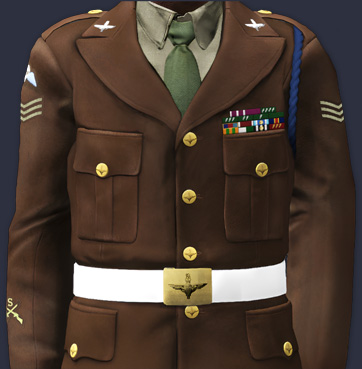
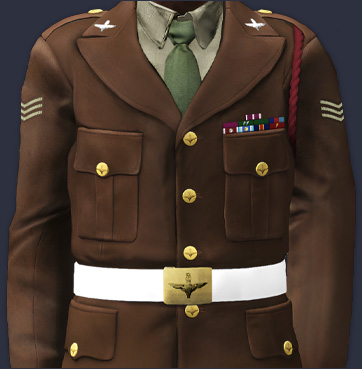
Improve ribbon rows logic

diff --git a/README.md b/README.md
@@ -6,7 +6,6 @@ This plugin shows a dynamically updating uniform for the 16AA member showing gro
 ## To-Do
 - [ ] Add Recruit graphics
 - [ ] Add remaining ranks graphics
-- [ ] Add remaining qualifications graphics
-- [ ] Add curvature for awards canvas (maybe)
+- [ ] Add and organise implementation of remaining qualifications graphics
 - [ ] Royal Air Force Officers & Enlisted uniforms
 - [ ] Implement tooltips with more detailed info and image for all dynamically added elements
